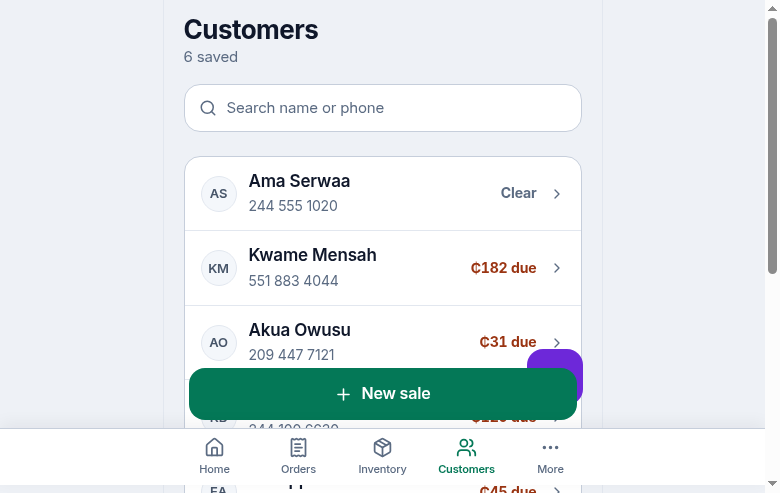
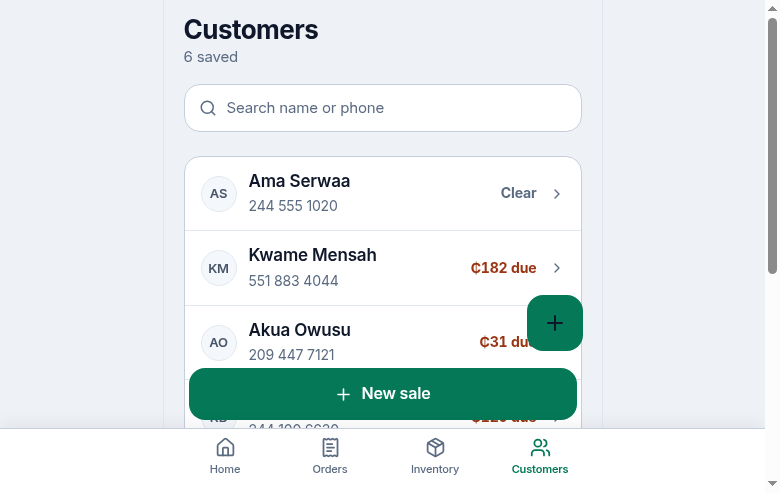
UI fixes: painted tab-bar inset strip, theme-following system bar colors (AppChrome plugin + meta sync), sell tile persistent selection with qty badge and undo X

Changed region(s): [[0.3692, 0.8824, 0.7385, 1.0], [0.6769, 0.5781, 0.7692, 0.8215], [0.2462, 0.8824, 0.3077, 1.0]]

diff --git a/app/sell-screen.tsx b/app/sell-screen.tsx
@@ -40,6 +40,7 @@ export default function SellScreen() {
   const addToCart = usePos((s) => s.addToCart);
   const setCartQty = usePos((s) => s.setCartQty);
   const setCartCustomer = usePos((s) => s.setCartCustomer);
+  const cart = usePos((s) => s.cart);
   const totals = useCartTotals();
 
   const [query, setQuery] = useState("");
@@ -70,6 +71,12 @@ export default function SellScreen() {
       (c) => q === "" || c.name.toLowerCase().includes(q) || c.phone.includes(q),
     );
   }, [customers, custQuery]);
+
+  const qtyInCart = useMemo(() => {
+    const m = new Map<string, number>();
+    for (const line of cart) m.set(line.productId, line.qty);
+    return m;
+  }, [cart]);
 
   if (!hydrated) return null;
 
@@ -183,8 +190,10 @@ export default function SellScreen() {
                 <ProductTile
                   key={p.id}
                   p={p}
+                  qty={qtyInCart.get(p.id) ?? 0}
                   flash={flash === p.id}
                   onTap={() => tap(p.id)}
+                  onRemove={() => setCartQty(p.id, (qtyInCart.get(p.id) ?? 1) - 1)}
                 />
               ))}
             </div>
@@ -194,7 +203,7 @@ export default function SellScreen() {
 
       {totals.count > 0 && (
         <div className="fixed inset-x-0 bottom-0 z-40 border-t border-line2 bg-surface">
-          <div className="mx-auto flex max-w-[440px] items-center gap-3 px-4 pb-[max(env(safe-area-inset-bottom,0px),8px)] pt-3">
+          <div className="mx-auto flex max-w-[440px] items-center gap-3 px-4 pb-[max(var(--nova-sab),8px)] pt-3">
             <button
               onClick={() => setCartOpen(true)}
               aria-label={`Open cart, ${totals.count} items, ${fmtMoney(totals.total)}`}
@@ -429,29 +438,59 @@ export default function SellScreen() {
 
 function ProductTile({
   p,
+  qty,
   flash,
   onTap,
+  onRemove,
 }: {
   p: Product;
+  qty: number;
   flash: boolean;
   onTap: () => void;
+  onRemove: () => void;
 }) {
   const out = p.stock <= 0;
   const low = !out && p.stock <= p.lowStockAt;
+  const selected = qty > 0;
   return (
-    <button
-      onClick={onTap}
-      disabled={out}
+    <div
+      role="button"
+      tabIndex={out ? undefined : 0}
+      aria-disabled={out}
+      aria-label={selected ? `${p.name}, ${qty} in cart` : p.name}
+      onClick={() => !out && onTap()}
+      onKeyDown={(e) => {
+        if (!out && (e.key === "Enter" || e.key === " ")) {
+          e.preventDefault();
+          onTap();
+        }
+      }}
       className={cn(
-        "press flex flex-col overflow-hidden rounded-2xl border text-left",
-        flash ? "border-accent bg-accent/10" : "border-line bg-surface hover:bg-surface2/50",
+        "press relative flex flex-col overflow-hidden rounded-2xl border text-left cursor-pointer",
+        selected || flash
+          ? "border-accent bg-accent/10"
+          : "border-line bg-surface hover:bg-surface2/50",
+        out && "cursor-default opacity-50",
       )}
     >
       <ProductArt
         imageUrl={p.imageUrl}
         name={p.name}
-        className={cn("aspect-square w-full", out && "opacity-50")}
+        className="aspect-square w-full"
       />
+      {selected && (
+        <button
+          aria-label={`Remove one ${p.name} from cart`}
+          onClick={(e) => {
+            e.stopPropagation();
+            onRemove();
+          }}
+          className="press absolute right-1.5 top-1.5 flex h-6 items-center gap-1 rounded-full bg-accent pl-1.5 pr-2 text-accentink shadow-sm"
+        >
+          <X className="size-3.5" strokeWidth={3} />
+          {qty > 1 && <span className="tabnum text-[11px] font-bold">×{qty}</span>}
+        </button>
+      )}
       <span className="flex min-w-0 flex-1 flex-col px-2.5 pb-2.5 pt-2">
         <span className="line-clamp-2 min-h-[36px] text-[15px] font-semibold leading-tight text-ink">
           {p.name}
@@ -465,7 +504,7 @@ function ProductTile({
           ) : null}
         </span>
       </span>
-    </button>
+    </div>
   );
 }
 

diff --git a/components/shell/appshell.tsx b/components/shell/appshell.tsx
@@ -8,12 +8,22 @@ import { Toaster } from "@/components/ui/toaster";
 import { usePos } from "@/lib/store";
 import { useEffect } from "react";
 import { cn } from "@/lib/ui";
+import { appChrome } from "@/lib/appchrome";
+
+/** paints the window chrome (decor + bar zones) — no-op when unsupported */
+async function applyBarColor(color: string): Promise<void> {
+  try {
+    await appChrome.setBarBackgroundColor({ color });
+  } catch {
+    /* not available on this platform */
+  }
+}
 
 export function AppShell({ children }: { children: React.ReactNode }) {
   const pathname = usePathname();
   const hasTabBar = willHaveTabBar(pathname);
   return (
-    <div className={cn("mx-auto min-h-dvh max-w-[440px] sm:border-x sm:border-line", hasTabBar && "pb-[164px]")}>
+    <div className={cn("mx-auto min-h-dvh max-w-[440px] sm:border-x sm:border-line", hasTabBar && "pb-[calc(var(--nova-sab)+164px)]")}>
       {children}
       <ChromeGate />
     </div>
@@ -33,6 +43,14 @@ function ChromeGate() {
   useEffect(() => {
     document.documentElement.dataset.theme = theme;
     document.documentElement.style.colorScheme = theme;
+
+    // bars can be tinted from theme-color metas or the native window decor —
+    // both must follow the in-app theme, not the device's night mode
+    const barColor = theme === "light" ? "#eef1f6" : "#0a0e17";
+    document
+      .querySelectorAll('meta[name="theme-color"]')
+      .forEach((m) => m.setAttribute("content", barColor));
+    void applyBarColor(barColor);
   }, [theme]);
 
   // the Android status bar sits on top of the app: its icons must follow the

diff --git a/app/customers-screen.tsx b/app/customers-screen.tsx
@@ -39,6 +39,7 @@ export default function CustomersScreen() {
 
   return (
     <div className="anim-fade px-5 pt-4">
+      <div className="safe-t" />
       {/* header — page title, count */}
       <header>
         <h1 className="text-[26px]/7 font-bold tracking-[-0.02em] text-ink">Customers</h1>
@@ -96,7 +97,7 @@ export default function CustomersScreen() {
       )}
 
       <div
-        className="pointer-events-none fixed inset-x-0 bottom-[calc(env(safe-area-inset-bottom,0px)+142px)] z-40 mx-auto flex max-w-[440px] justify-end px-5"
+        className="pointer-events-none fixed inset-x-0 bottom-[calc(var(--nova-sab)+142px)] z-40 mx-auto flex max-w-[440px] justify-end px-5"
       >
         <button
           onClick={() => setAddOpen(true)}

diff --git a/components/shell/tabbar.tsx b/components/shell/tabbar.tsx
@@ -26,7 +26,7 @@ export function TabBar() {
   if (!TAB_ROUTES.includes(normalize(pathname))) return null;
 
   return (
-    <nav className="fixed inset-x-0 bottom-0 z-40 pb-[max(env(safe-area-inset-bottom,0px),8px)]">
+    <nav className="fixed inset-x-0 bottom-0 z-40">
       <div className="mx-auto max-w-[420px] px-4 pb-2">
         <Link
           href="/sell"
@@ -59,6 +59,8 @@ export function TabBar() {
           })}
         </div>
       </div>
+      {/* gesture/button strip: painted so page content never shows through */}
+      <div className="bg-surface" style={{ height: "max(var(--nova-sab), 8px)" }} />
     </nav>
   );
 }

diff --git a/app/globals.css b/app/globals.css
@@ -152,7 +152,16 @@
 
 html {
   height: 100%;
+  background: var(--bg);
   overscroll-behavior-y: none;
+}
+
+/* Capacitor injects --safe-area-inset-* on the html element. env() is only
+   reliable when the WebView runs full-bleed, so take whichever source reports
+   an inset. */
+:root {
+  --nova-sat: max(env(safe-area-inset-top, 0px), var(--safe-area-inset-top, 0px));
+  --nova-sab: max(env(safe-area-inset-bottom, 0px), var(--safe-area-inset-bottom, 0px));
 }
 
 body {
@@ -205,7 +214,7 @@ textarea::placeholder {
 }
 
 .safe-t {
-  padding-top: env(safe-area-inset-top, 0px);
+  padding-top: var(--nova-sat);
 }
 
 .press {

diff --git a/app/settings-screen.tsx b/app/settings-screen.tsx
@@ -174,7 +174,7 @@ export default function SettingsScreen() {
       </section>
 
       {/* save footer */}
-      <footer className="fixed inset-x-0 bottom-0 z-40 mx-auto max-w-[440px] border-t border-line bg-surface px-4 pt-3 pb-[calc(env(safe-area-inset-bottom,0px)+12px)]">
+      <footer className="fixed inset-x-0 bottom-0 z-40 mx-auto max-w-[440px] border-t border-line bg-surface px-4 pt-3 pb-[calc(var(--nova-sab)+12px)]">
         <div className="grid grid-cols-2 gap-2.5">
           <Button variant="secondary" block onClick={() => router.back()}>
             Cancel

diff --git a/app/shopsettings-screen.tsx b/app/shopsettings-screen.tsx
@@ -104,7 +104,7 @@ export default function ShopSettingsScreen() {
         </Card>
       </section>
 
-      <footer className="fixed inset-x-0 bottom-0 z-40 mx-auto max-w-[440px] border-t border-line bg-surface px-4 pt-3 pb-[calc(env(safe-area-inset-bottom,0px)+12px)]">
+      <footer className="fixed inset-x-0 bottom-0 z-40 mx-auto max-w-[440px] border-t border-line bg-surface px-4 pt-3 pb-[calc(var(--nova-sab)+12px)]">
         <div className="grid grid-cols-2 gap-2.5">
           <Button variant="secondary" block onClick={() => router.back()}>
             Cancel

diff --git a/components/ui/sheet.tsx b/components/ui/sheet.tsx
@@ -58,7 +58,7 @@ export function Sheet({
           <div className="pt-2 pr-14 pb-2 pl-5 text-[17px] font-semibold text-ink">{title}</div>
         )}
         <div className="no-scrollbar flex-1 overflow-y-auto px-5 pb-4">{children}</div>
-        {footer && <div className="border-t border-line/70 bg-surface px-5 py-3.5 pb-[calc(env(safe-area-inset-bottom,0px)+14px)]">{footer}</div>}
+        {footer && <div className="border-t border-line/70 bg-surface px-5 py-3.5 pb-[calc(var(--nova-sab)+14px)]">{footer}</div>}
       </div>
     </div>
   );

diff --git a/app/product-edit-screen.tsx b/app/product-edit-screen.tsx
@@ -401,7 +401,7 @@ export default function ProductEditScreen() {
         </Card>
       </section>
 
-      <div className="fixed inset-x-0 bottom-0 z-40 border-t border-line bg-surface pb-[calc(env(safe-area-inset-bottom,0px)+12px)] pt-3">
+      <div className="fixed inset-x-0 bottom-0 z-40 border-t border-line bg-surface pb-[calc(var(--nova-sab)+12px)] pt-3">
         <div className="mx-auto grid max-w-[440px] grid-cols-2 gap-2.5 px-4">
           <Button variant="secondary" size="lg" onClick={() => router.back()}>
             Cancel

diff --git a/app/pay-screen.tsx b/app/pay-screen.tsx
@@ -391,7 +391,7 @@ export default function PayScreen() {
         </Button>
       </section>
 
-      <div className="fixed inset-x-0 bottom-0 z-40 border-t border-line2 bg-surface pb-[calc(env(safe-area-inset-bottom,0px)+12px)] pt-2">
+      <div className="fixed inset-x-0 bottom-0 z-40 border-t border-line2 bg-surface pb-[calc(var(--nova-sab)+12px)] pt-2">
         <div className="mx-auto max-w-[440px] px-4">
           {credit > 0 && (
             <p className="mb-1.5 text-center text-[13px] font-medium text-warn">

diff --git a/components/ui/barcode-scanner.tsx b/components/ui/barcode-scanner.tsx
@@ -128,7 +128,7 @@ export default function BarcodeScannerOverlay({
         )}
       </div>
 
-      <div className="shrink-0 border-t border-line2 bg-bg px-5 pb-[max(env(safe-area-inset-bottom,0px),12px)] pt-3">
+      <div className="shrink-0 border-t border-line2 bg-bg px-5 pb-[max(var(--nova-sab),12px)] pt-3">
         <button
           onClick={() => onResult(null)}
           className="press h-12 w-full rounded-xl border border-line2 bg-surface2 text-[15px] font-semibold text-ink hover:bg-surface3"

diff --git a/components/ui/toaster.tsx b/components/ui/toaster.tsx
@@ -8,7 +8,7 @@ export function Toaster() {
   const toasts = usePos((s) => s.toasts);
   if (toasts.length === 0) return null;
   return (
-    <div className="pointer-events-none fixed inset-x-0 bottom-[calc(env(safe-area-inset-bottom,0px)+188px)] z-[70] flex flex-col items-center gap-2 px-4">
+    <div className="pointer-events-none fixed inset-x-0 bottom-[calc(var(--nova-sab)+188px)] z-[70] flex flex-col items-center gap-2 px-4">
       {toasts.slice(-2).map((t) => (
         <div
           key={t.id}
